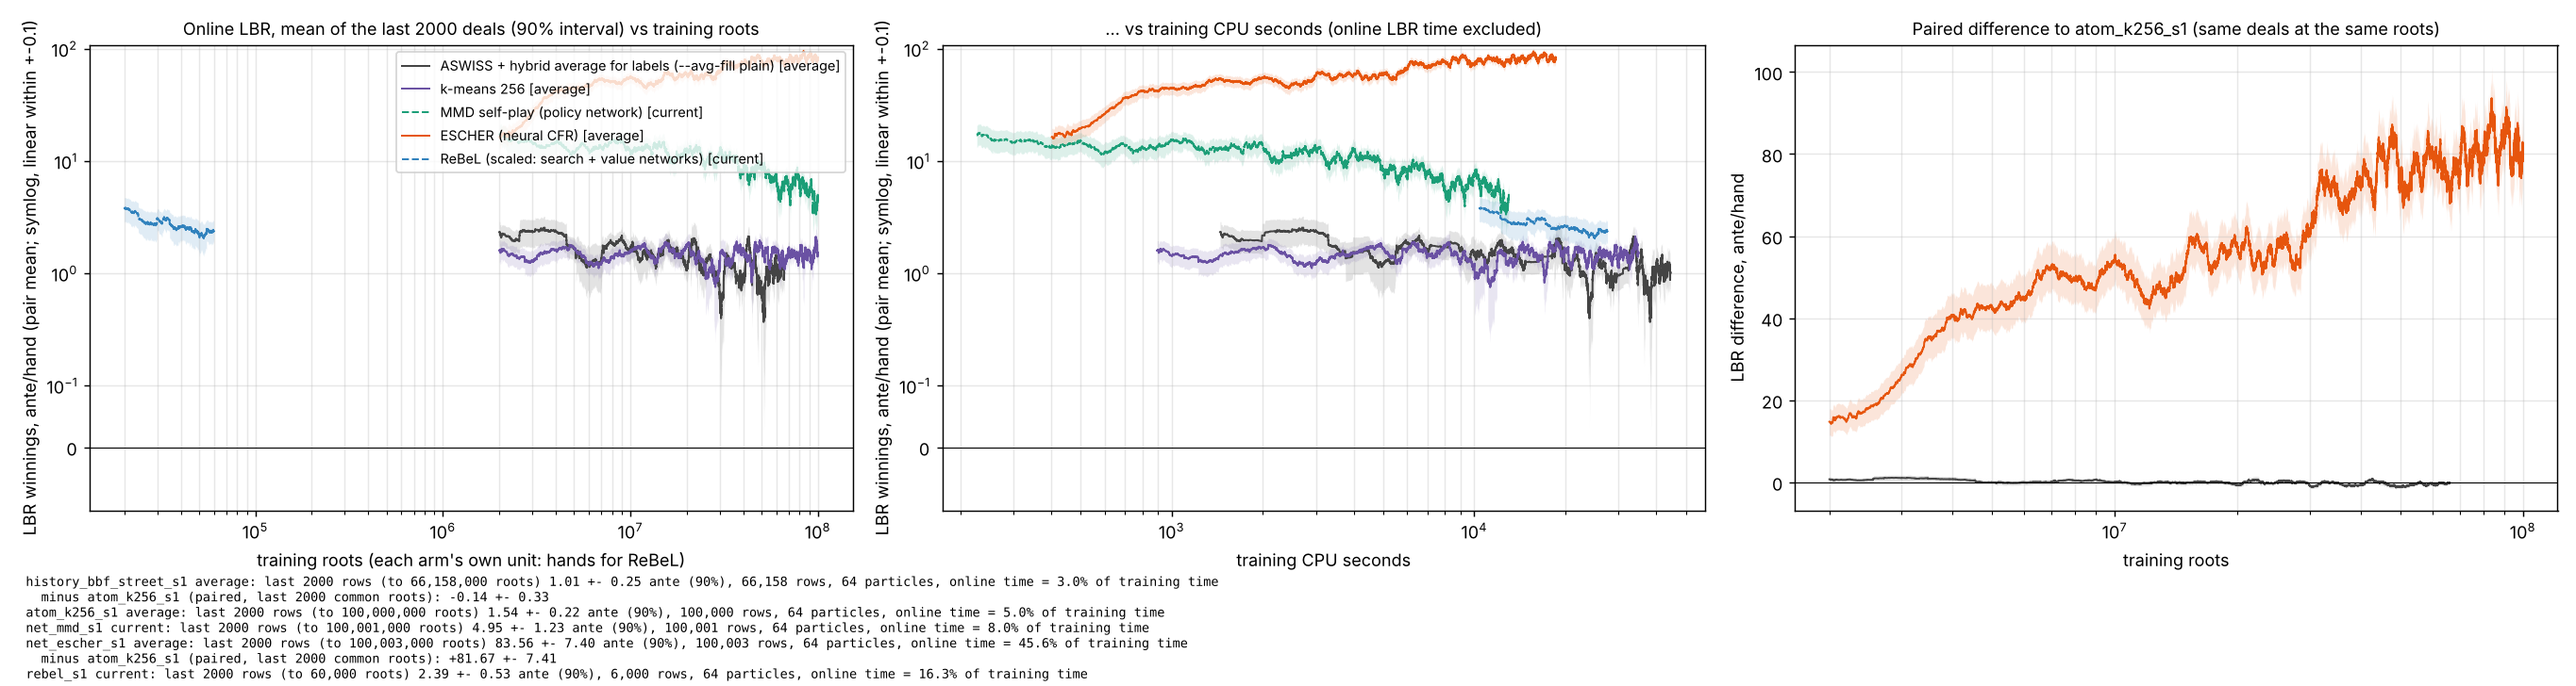
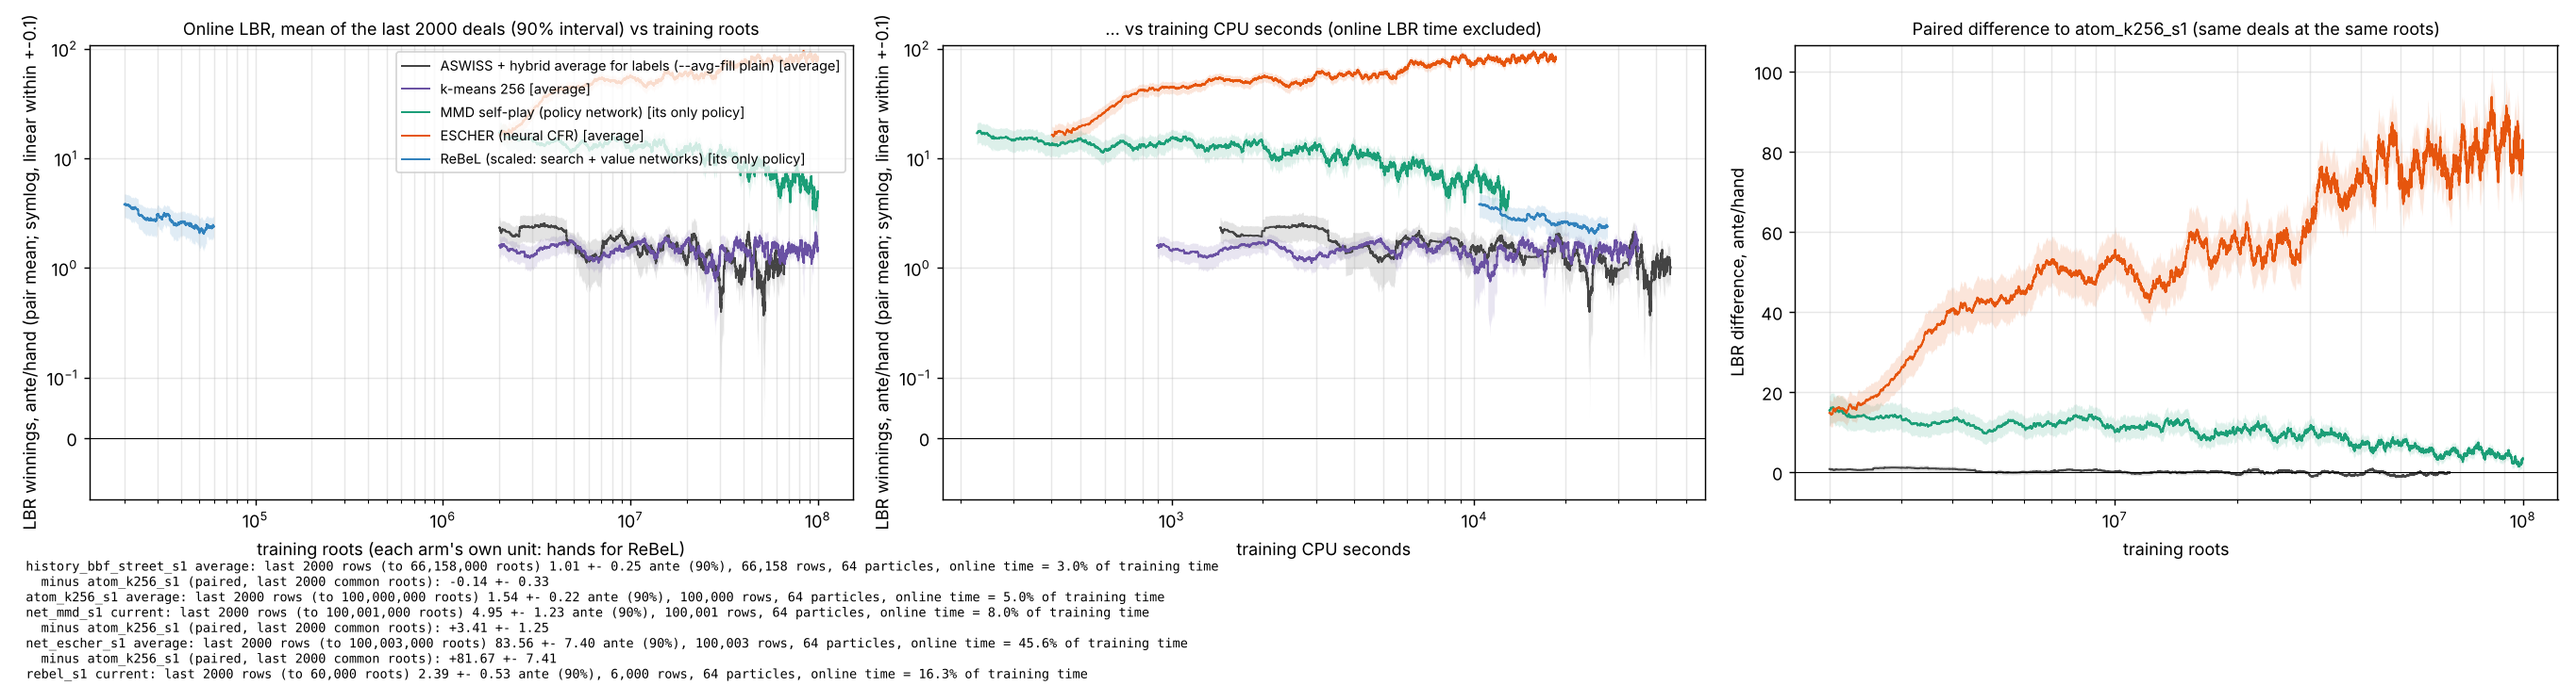
7-stud plots: single-policy arms compared with average policies
MMD (last iterate) and ReBeL (search policy) have no average policy; the one
policy they have is what they play, as the average policy is what the
CFR-type arms play. plot_stud.py and plot_stud_time.py now draw it in the
average ("deployed") policy panels, labelled "[its only policy]", and leave
it out of the current-policy panels; plot_online_lbr.py draws it solid and
pairs MMD with the baseline's average policy (ReBeL, whose roots are hands,
is not paired). runs_online figures redrawn; README notes it.

Claude-Session: https://claude.ai/code/session_01NttyhYFkEHhwUCcwRbsQVP

diff --git a/agents/adaptive_buckets/aswiss/stud7/plot_stud.py b/agents/adaptive_buckets/aswiss/stud7/plot_stud.py
@@ -82,7 +82,8 @@ def load(run, name):
 
 def pairs(run, row, tag=""):
     stem = row["file"][:-4]
-    for name in (f"lbr_pairs{tag}_{stem}_{row['policy']}.csv", f"lbr_pairs{tag}_{row['epoch']}_{row['policy']}.csv"):
+    pol = row.get("pair_policy", row["policy"])  # single-policy runs: drawn as "average", stored under their own policy
+    for name in (f"lbr_pairs{tag}_{stem}_{pol}.csv", f"lbr_pairs{tag}_{row['epoch']}_{pol}.csv"):
         if os.path.exists(f"{R}/{run}/{name}"):
             return np.loadtxt(f"{R}/{run}/{name}", delimiter=",", skiprows=1, usecols=1)
     raise FileNotFoundError(f"{run}: pair file for {stem} {row['policy']}")
@@ -97,6 +98,20 @@ data = {run: load(run, a.eval_file) for run, *_ in SERIES}
 # pair files carry the evaluation's tag: eval.jsonl -> lbr_pairs_<snapshot>_..., eval_<tag>.jsonl -> lbr_pairs_<tag>_<snapshot>_...
 TAG = "_" + a.eval_file[len("eval_"):-len(".jsonl")] if a.eval_file.startswith("eval_") and a.eval_file.endswith(".jsonl") else ""
 final = {run: load(run, "eval_final.jsonl") for run, *_ in SERIES}
+# Runs with one policy only (MMD: its last iterate; ReBeL: its search policy) have no average policy. That one policy
+# is what they play, as the average policy is what the CFR-type runs play, so it is compared in the average-policy
+# panels (the deployed policy of every method) and left out of the current-policy panels.
+SINGLE = set()
+
+
+def as_deployed(rows):
+    return {(f, "average"): dict(v, policy="average", pair_policy=v["policy"]) for (f, p), v in rows.items() if p == "current"}
+
+
+for run, *_ in SERIES:
+    if data[run] and not any(p == "average" for (_, p) in data[run]):
+        SINGLE.add(run); data[run] = as_deployed(data[run]); final[run] = as_deployed(final[run])
+SERIES = [(run, label + (" [its only policy]" if run in SINGLE else ""), *rest) for run, label, *rest in SERIES]
 off_scale = {run for run, *_ in SERIES if data[run] and max(data[run].values(), key=lambda r: r["roots"])["lbr_ante"] > OFF_SCALE_LBR}
 learned_h4 = any(r.get("h4") == "learned" for rows in data.values() for r in rows.values())
 base_by_roots = {(r["roots"], r["policy"]): r for r in data.get(BASELINE, {}).values()}
@@ -152,7 +167,8 @@ for col, policy in enumerate(("average", "current")):
             if run != BASELINE and b:
                 m, e = paired(run, r, b, "_final")
                 axes[2, col].errorbar([r["roots"] * 1.12], [m], yerr=[e], color=colour, **HOLLOW)
-    styled(axes[0, col], f"{policy.capitalize()} policy: Policy-LBR (95% interval)", "LBR winnings, ante/hand", False)
+    styled(axes[0, col], ("Deployed policy: average (single-policy runs: their only policy)" if policy == "average"
+                          else "Current policy") + ": Policy-LBR (95%)", "LBR winnings, ante/hand", False)
     axes[0, col].axhline(0, color=MUTED, lw=1)
     lbr_axis(axes[0, col])
     styled(axes[1, col], f"{policy.capitalize()} policy: sampled BR-gap proxy (fixed deals)", "proxy, ante/hand (log)", True)
@@ -192,11 +208,12 @@ if have_curve:
 else:
     ax.axis("off")
 notes = [f"{run}: newest snapshot LBR > {OFF_SCALE_LBR:g}, not drawn" for run in sorted(off_scale)] + [
-    "Network arms (partition net; not MCCFR): MMD has one policy (its last iterate, current-policy panels); ESCHER has an "
+    "Network arms (partition net; not MCCFR): MMD has one policy (its last iterate), drawn in the average-policy panels as "
+    "the policy it deploys; ESCHER has an "
     "average-policy network and regret-matching current policy; their 'buckets' are the networks' parameters."] * any(
         r.startswith("net_") for r in (s.split(":", 1)[0] for s in (a.runs or DEFAULT))) + [
     "ReBeL (scaled, partition rebel; not MCCFR): its 'roots' are self-play hands (each solves up to three street "
-    "subgames), its search policy is drawn in the current-policy panels, 'buckets' = value-network parameters, gap "
+    "subgames), its search policy is drawn in the average-policy panels (the policy it deploys), 'buckets' = value-network parameters, gap "
     "proxy not computed. Compare it on the wall-clock axis (plot_stud_time.py)."] * any(
         r.startswith("rebel") for r in (s.split(":", 1)[0] for s in (a.runs or DEFAULT))) + [
     f"{run}: no evaluations found, not drawn" + (" - this is the baseline, so the difference and ratio panels are empty"

diff --git a/agents/adaptive_buckets/aswiss/stud7/plot_stud_time.py b/agents/adaptive_buckets/aswiss/stud7/plot_stud_time.py
@@ -66,17 +66,21 @@ for i, spec in enumerate(a.runs):
             for r in snap if snap_cpu is None or r["file"] in snap_cpu}
     color = colors[i % len(colors)]
     ls = "--" if name == a.baseline else "-"
-    lab = label + (f" [{group}]" if group else "") + (" (wall)" if wall_only else "")
+    epath = os.path.join(d, a.eval_file)
+    allrows = [json.loads(l) for l in open(epath)] if os.path.exists(epath) else []
+    # one policy only (MMD: last iterate; ReBeL: search policy): it is what the method plays, so it is compared with
+    # the other runs' average policies (their deployed policies) and left out of the current-policy panel
+    single = bool(allrows) and not any(r["policy"] == "average" for r in allrows)
+    lab = label + (" [its only policy]" if single else "") + (f" [{group}]" if group else "") + (" (wall)" if wall_only else "")
     for j, policy in enumerate(("average", "current")):
-        epath = os.path.join(d, a.eval_file)
-        rows = [json.loads(l) for l in open(epath)] if os.path.exists(epath) else []
-        rows = sorted((r for r in rows if r["policy"] == policy and r["file"] in secs), key=lambda r: secs[r["file"]])
+        want = ("current" if single else "average") if policy == "average" else (None if single else "current")
+        rows = sorted((r for r in allrows if r["policy"] == want and r["file"] in secs), key=lambda r: secs[r["file"]])
         x = [secs[r["file"]] for r in rows]; y = [r["lbr_ante"] for r in rows]; e = [1.96 * r["lbr_se"] for r in rows]
         ax[0][j].errorbar(x, y, yerr=e, color=color, ls=ls, marker="o", ms=3, lw=1.1, capsize=2, label=lab if j == 0 else None)
         fpath = os.path.join(d, "eval_final.jsonl")
         if os.path.exists(fpath):
             for r in map(json.loads, open(fpath)):
-                if r["policy"] == policy and r["file"] in secs:
+                if r["policy"] == want and r["file"] in secs:
                     ax[0][j].errorbar([secs[r["file"]] * 1.08], [r["lbr_ante"]], yerr=[1.96 * r["lbr_se"]], color=color,
                                       marker="o", mfc="white", ms=7, capsize=3)
     sec_adj = sec - removed
@@ -88,7 +92,8 @@ tag = f" (stalls > {a.drop_stalls:g}x median removed)" if a.drop_stalls > 0 else
 CLOCK = "CPU" if a.clock == "cpu" else "wall-clock"
 for j, policy in enumerate(("Average", "Current")):
     ax[0][j].set_xscale("log"); ax[0][j].axhline(0, color="black", lw=0.6)
-    ax[0][j].set_title(f"{policy} policy: Policy-LBR (95%) against training time{tag}", fontsize=10)
+    ax[0][j].set_title(("Deployed policy: average (single-policy runs: their only policy)" if policy == "Average" else
+                        "Current policy") + f": Policy-LBR (95%) vs training time{tag}", fontsize=10)
     ax[0][j].set_xlabel(f"training {CLOCK} seconds (evaluation excluded)")
     ax[0][j].set_ylabel(f"LBR winnings, ante/hand (symlog, linear within +-{LBR_LT:g})")
     ax[0][j].set_yscale("symlog", linthresh=LBR_LT, linscale=0.5); ax[0][j].grid(True, which="both", alpha=0.3)

diff --git a/agents/adaptive_buckets/aswiss/stud7/plot_online_lbr.py b/agents/adaptive_buckets/aswiss/stud7/plot_online_lbr.py
@@ -104,9 +104,13 @@ for i, spec in enumerate(a.runs):
     if data is None:
         summary.append(f"{name}: no online_lbr.csv, not drawn"); continue
     color = colors[i % len(colors)]
+    # one policy only (MMD: last iterate; ReBeL: search policy): what the method plays, like the others' average
+    # policies, so it is drawn solid and paired with the baseline's average policy
+    single = set(data) == {"current"}
     for policy, rows in sorted(data.items()):
-        ls = "-" if policy == "average" else "--"
-        lab = f"{label} [{policy}]" + (f" ({group})" if group else "")
+        deployed = policy == "average" or single
+        ls = "-" if deployed else "--"
+        lab = f"{label} [{'its only policy' if single else policy}]" + (f" ({group})" if group else "")
         mv = moving(rows, a.window)
         if not mv:
             summary.append(f"{name} {policy}: {len(rows)} rows < window {a.window}, not drawn"); continue
@@ -118,8 +122,9 @@ for i, spec in enumerate(a.runs):
         overhead = rows[-1][4] / max(1e-9, rows[-1][1])
         summary.append(f"{name} {policy}: last {a.window} rows (to {last[0]:,} roots) {last[2]:.2f} +- {last[3]:.2f} ante "
                        f"({a.level:.0%}), {len(rows):,} rows, {rows[-1][3]} particles, online time = {overhead:.1%} of training time")
-        if base and policy in base and name != a.baseline:
-            b = {r[0]: r[2] for r in base[policy]}
+        bpol = "average" if single else policy
+        if base and bpol in base and name != a.baseline and not name.startswith("rebel"):  # ReBeL: roots are hands
+            b = {r[0]: r[2] for r in base[bpol]}
             paired = [(r[0], r[1], r[2] - b[r[0]], 0, 0) for r in rows if r[0] in b]
             dm = moving(paired, a.window)
             if dm:

diff --git a/agents/adaptive_buckets/aswiss/stud7/README_KO.md b/agents/adaptive_buckets/aswiss/stud7/README_KO.md
@@ -926,6 +926,8 @@ python plot_gate.py runs3 runs_100m results_stud_gate_5m_seed1 --ungated "ASWISS
 - 온라인 LBR: 표 기반은 평균 정책이다. ESCHER는 감시용 평균망이다. 반복마다 전략 저수지로 500스텝을 이어서 학습하고, 별도 난수를 쓰며, 그 시간은 평가 시간으로 뺀다.
 - 오프라인: `-AverageOnly`(eval/final)와 presplit은 평균 정책만 평가한다.
 - MMD(마지막 반복)와 ReBeL(탐색 정책)은 평균 정책이 없어서, 그 하나뿐인 출력 정책을 최종 전략으로 평가한다.
+  - 그림에서도 이 정책을 다른 비교군의 평균 정책과 같은 패널("Deployed policy")에 그린다. 실전에서 두는 전략끼리 비교하기 위해서다. 범례에 "[its only policy]"를 붙이고, 현재 정책 패널에서는 뺀다(2026-11-07).
+  - 온라인 LBR의 같은 deal 차이도 MMD는 기준(k-means)의 평균 정책과 짝짓는다. ReBeL은 roots가 판 수라 같은 roots로 짝짓지 않는다.
 
 **파티클 수:**
 - 70k `hist_bbf` 스냅숏, 같은 2,000 pair에서 잰 값이다.
